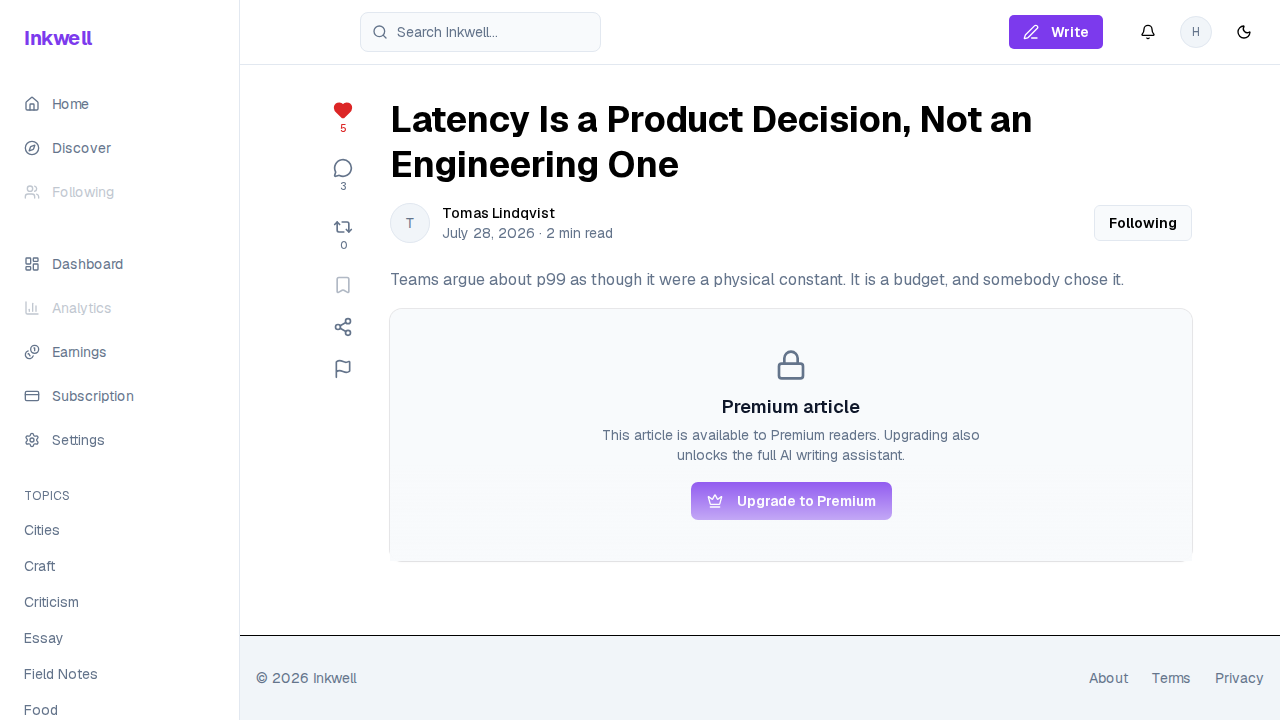
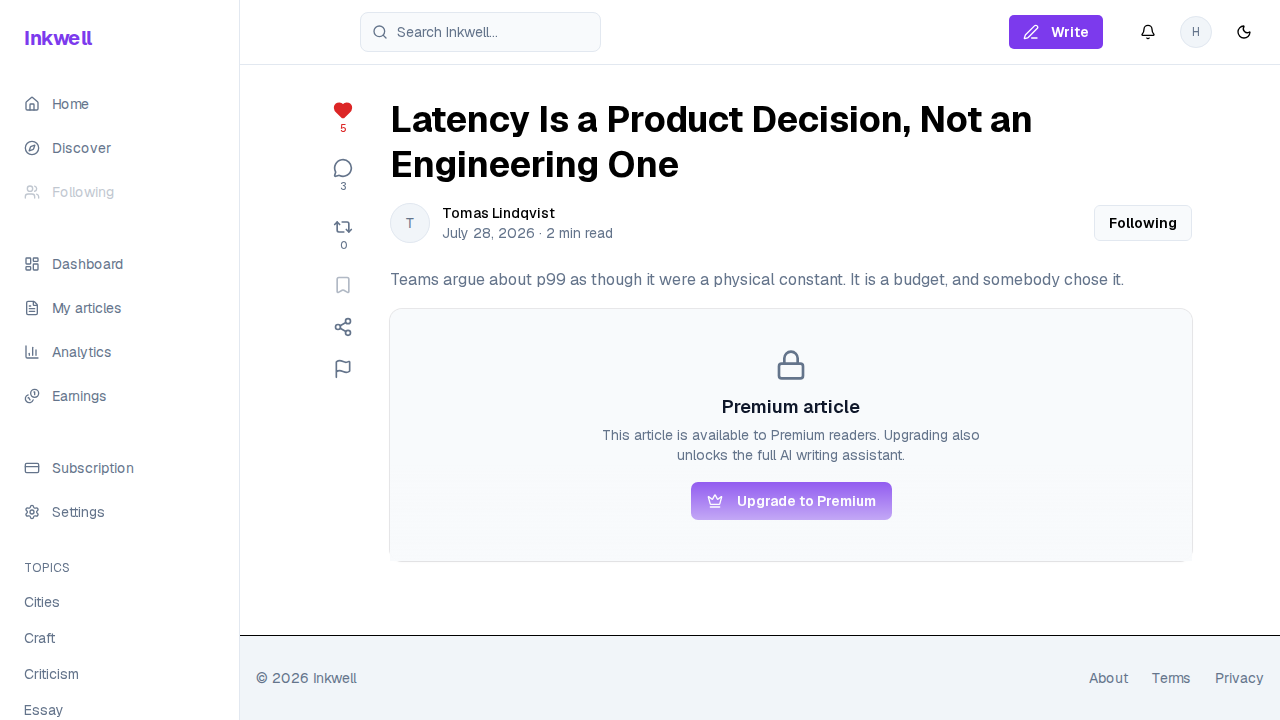
chore(figures): recapture the full set in one sitting
The left sidebar changed with the route restructure, and it appears in every
figure — so the set was recaptured whole rather than patched figure by figure,
which is what the README asks for and why it asks.

Six changed in substance and one is new. writer-10-dashboard-analytics is the
one worth naming: it had been a second photograph of /dashboard, because no
analytics page existed when the figure list was drawn up.

magazine-03-purchase-confirm is NOT in this set and still shows the old
sidebar. Its capture skips when a listing has no Preview control, and all
three seeded marketplace articles have since been previewed or purchased by
E2E runs against this database. The untouched listings are e2e- artefacts,
which do not belong in a report figure. Documented in the README; the fix is a
reseed followed by a full run.

diff --git a/figures/screens/README.md b/figures/screens/README.md
@@ -35,18 +35,53 @@ the only sales on another:
 |---|---|---|
 | `guest-` | signed out | the public surface, both registration paths, the premium gate |
 | `reader-` | `hakim@example.com` | free plan, so the paywall and upgrade prompt are real |
-| `writer-01…08`, `writer-12` | `nadia@example.com` | drafting, the editor, both AI surfaces, notifications |
+| `writer-01…08`, `writer-12`, `writer-13` | `nadia@example.com` | the dashboard overview, My articles, drafting, the editor, both AI surfaces, notifications |
 | `writer-09…11` | `yusuf@example.com` | the two-stage sale, itemised |
 | `magazine-` | `editors@longformreview.example.com` | subscribed, 953 credits, one article licensed |
 | `admin-` | `admin@inkwell.ai` | the moderation console |
+
+## One figure is out of step
+
+`magazine-03-purchase-confirm` is the only figure NOT from the Phase 6 sitting, so it
+still shows the pre-Phase-6 sidebar.
+
+Its capture is skipped when the listing has no `Preview ·` control, and all three of the
+seed's marketplace articles have since been previewed or purchased by E2E runs against
+this database — so there is no clean listing left to open the dialog on. The untouched
+listings are all `e2e-` artefacts, which do not belong in a report figure.
+
+The fix is a reseed followed by a full capture run, in that order, per the steps above.
+Until then, treat this one figure as stale chrome rather than stale content: the dialog
+it shows is unchanged.
+
+## Recaptured in Phase 6
+
+The writer's routes moved under `/dashboard` and two pages that §6 specified were built
+for the first time. The left sidebar changed with them — it now carries the writer's
+workspace as its own block — and the sidebar appears in every figure, so the WHOLE SET
+was recaptured in one sitting rather than patched figure by figure. The table below is
+what changed in substance; everything else changed only in its navigation column.
+
+| Figure | What changed |
+|---|---|
+| `writer-01-dashboard` | now the designed overview — welcome row, four KPI cards, recent articles, eligibility — rather than the master/detail list it was |
+| `writer-10-dashboard-analytics` | **had been a second photograph of `/dashboard`**, because no analytics page existed. It now shows the page it has been named after since the figure list was drawn up |
+| `writer-13-my-articles` | new. The searchable, date-filterable article table. Appended rather than renumbered, because the report references figures by name |
+| `writer-09-earnings` | moved to `/dashboard/earnings`, and gained the preview/purchase KPI split and the per-article revenue table that FR-37 asks for |
+| `writer-12-notifications` | filter pills, date grouping, mark-all-as-read, and rows that link through to their subject |
+| `writer-02-own-profile` | the Articles tab shows this writer's real work. It previously showed four invented articles, identical on every profile in the product |
+| `reader-04-settings` | location and website fields |
 
 ## The three that carry the most
 
 - **`magazine-01-marketplace`** — the three listings in three different states at once:
   previewed (75 credits, 68 outstanding), untouched (preview 12 / buy 120), and already
   in the library. This is what §4.5.5 describes.
-- **`writer-09-earnings`** — the split payment as the writer sees it: `PREVIEW +4`
-  (4 paid, 0 fee) then `PURCHASE +29` (36 paid, 7 fee), summing to the 33 balance.
+- **`writer-09-earnings`** — the split payment as the writer sees it, now at both
+  levels: the KPI row separates `4` preview payouts from `29` purchase payouts against
+  a `33` lifetime total, the Revenue by article table attributes all of it to one piece
+  bought by one magazine, and the payout history itemises `PREVIEW +4` (4 paid, 0 fee)
+  then `PURCHASE +29` (36 paid, 7 fee).
 - **`admin-03-report-queue`** — reports across `PENDING` / `REVIEWED` / `DISMISSED`,
   including one with no reporter shown. That row is the platform's publish-time
   classifier (`reports.reporter_id IS NULL`, see `6-database-schema.md`), and it is in
